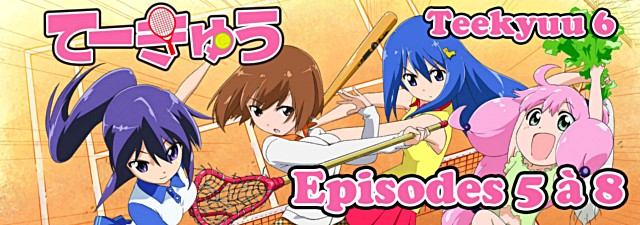
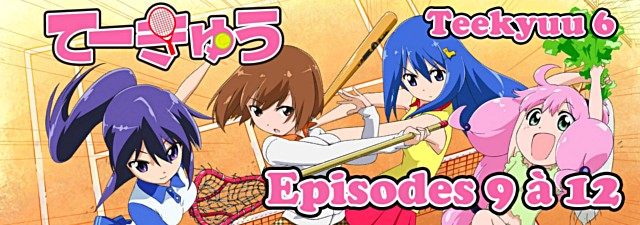
New release+new service

Changed region(s): [[0.4062, 0.7156, 1.0, 0.9956]]

diff --git a/2016-03-03.html b/2016-03-03.html
@@ -1,7 +1,7 @@
-<!DOCTYPE html>
+<!DOCTYPE html>
 <html lang="fr-FR">
 	<head>
-		<title>Teekyuu Saison 6 | Nobluesky Fansub</title>
+		<title>Teekyuu Saison 6 Ep 9 à 12 vostfr | Nobluesky Fansub</title>
 		<meta charset="utf-8" />
 		<link rel="Shortcut Icon" type="image/x-icon" href="favicon.ico" />
 		<link href="fonts/fonts.css" rel="stylesheet" type="text/css" />
@@ -36,56 +36,16 @@
 	<div id="article">
 		<div id="content">
 			<div class="post">
-				<h1 class="title">Teekyuu Saison 6</h1>
-				<div style="clear: both;">&nbsp;</div>
+				<h1 class="title">Teekyuu Saison 6 Ep 9 à 12 vostfr</h1>
+				<p class="meta"><span class="date">3 Mars 2016</span><span class="posted">Posté par <a href="about.html#nobluesky">Nobluesky</a></span></p>
 				<div style="clear: both;">&nbsp;</div>
 				<div class="entry">
-					<img class="post-images" src="images/2016/teekyuu6.jpg" alt="" />
-					<p>12 épisodes de 2 min, Octobre 2015</p>
-					<p>Suite de la Saison 5</p>
-					<p>Nous suivons le quotidien de quatre lycéennes membres du club de tennis. Un quotidien... pour le moins peu ordinaire!</p>
-					<p>Toujours le même humour à coucher dehors dans cette saison. Si vous avez aimé les précédentes, n'hésitez plus!</p>
+					<img class="post-images" src="images/2016/news12.jpg" alt="" />
+					<p>Salut à tous!</p>
+					<p>Voici la fin de Teekyuu 6, une très bonne saison je trouve, même supérieure aux premières. Qu'en dites-vous?</p>
+					<p>On se dit à la prochaine pour Cyber Formula, et pour la saison 7 bien sûr!</p>
+					<p>Bon visionnage.</p>
 					<h3>Téléchargements et streaming</h3>
-					Episode 01 : 
-					<p class="links dl"><a href="http://jheberg.net/captcha/tks6-01/" class="button-dl">Jheberg</a></p>&nbsp; | &nbsp;
-					<p class="links dl"><a href="http://rutube.ru/video/969d05c94ec504959944cd2faf0cf2bd/" class="button-dl">Rutube</a></p>&nbsp; | &nbsp;
-					<p class="links dl"><a href="https://mega.nz/#!qZVTTAoR!ZrZaw0_bO0SVGx4dVh91WnypRqmF1w-Fc887CWZ__4A" class="button-dl">Mega</a></p>
-					<br>
-					Episode 02 : 
-					<p class="links dl"><a href="http://jheberg.net/captcha/tks6-02/" class="button-dl">Jheberg</a></p>&nbsp; | &nbsp;
-					<p class="links dl"><a href="http://rutube.ru/video/f4f1bf017ff7d0efde2b3d1bebec66e0/" class="button-dl">Rutube</a></p>&nbsp; | &nbsp;
-					<p class="links dl"><a href="https://mega.nz/#!PIMT3JgL!jck29YL4_GmbqEIOpsVkbJ64PttcWC97jPUxRIqskf8" class="button-dl">Mega</a></p>
-					<br>
-					Episode 03 : 
-					<p class="links dl"><a href="http://jheberg.net/captcha/tks6-03/" class="button-dl">Jheberg</a></p>&nbsp; | &nbsp;
-					<p class="links dl"><a href="http://rutube.ru/video/0692b524d6b76b39321a12b642917e59/" class="button-dl">Rutube</a></p>&nbsp; | &nbsp;
-					<p class="links dl"><a href="https://mega.nz/#!KZ9DSQhK!_QOdE-BElugpknLJ8u2sww1pm4KgNajNkvShsRkhTYY" class="button-dl">Mega</a></p>
-					<br>
-					Episode 04 : 
-					<p class="links dl"><a href="http://jheberg.net/captcha/tks6-04/" class="button-dl">Jheberg</a></p>&nbsp; | &nbsp;
-					<p class="links dl"><a href="http://rutube.ru/video/c50b46270d8b7352b248dcc02fc2b8fc/" class="button-dl">Rutube</a></p>&nbsp; | &nbsp;
-					<p class="links dl"><a href="https://mega.nz/#!vFlFgB5Y!1OcOxigV8qZFNwbtwMvVIAJVXcGJ-TfvHwhNiQ3AaJM" class="button-dl">Mega</a></p>
-					<br>
-					Episode 05 : 
-					<p class="links dl"><a href="http://jheberg.net/captcha/tks6-05/" class="button-dl">Jheberg</a></p>&nbsp; | &nbsp;
-					<p class="links dl"><a href="http://rutube.ru/video/e6dae76efdc5cefa7fb253f09246d231/" class="button-dl">Rutube</a></p>&nbsp; | &nbsp;
-					<p class="links dl"><a href="https://mega.nz/#!SVt2xAxL!NhD5G2_ytqpA1twNCQJg7wHc7QwFjVx5jsOEs-hZ5-g" class="button-dl">Mega</a></p>
-					<br>
-					Episode 06 : 
-					<p class="links dl"><a href="http://jheberg.net/captcha/tks6-06/" class="button-dl">Jheberg</a></p>&nbsp; | &nbsp;
-					<p class="links dl"><a href="http://rutube.ru/video/bafb6e988adb395c8ed4ff40126ae9b0/" class="button-dl">Rutube</a></p>&nbsp; | &nbsp;
-					<p class="links dl"><a href="https://mega.nz/#!TUdGEACA!clyFMjaWyNkv76JwAzWBoBCOz3MLgSPkZ6qNmlM7tJM" class="button-dl">Mega</a></p>
-					<br>
-					Episode 07 : 
-					<p class="links dl"><a href="http://jheberg.net/captcha/tks6-07/" class="button-dl">Jheberg</a></p>&nbsp; | &nbsp;
-					<p class="links dl"><a href="http://rutube.ru/video/54e5adab17290856d801bd3a64c6ecab/" class="button-dl">Rutube</a></p>&nbsp; | &nbsp;
-					<p class="links dl"><a href="https://mega.nz/#!OFEinJDa!zp0QCboa5OGLwMns2g0J1Ttg9IvW9PGehOk7N36FtK4" class="button-dl">Mega</a></p>
-					<br>
-					Episode 08 : 
-					<p class="links dl"><a href="http://jheberg.net/captcha/tks6-08/" class="button-dl">Jheberg</a></p>&nbsp; | &nbsp;
-					<p class="links dl"><a href="http://rutube.ru/video/222763d822c8bac5e69d68a2ae5969cf/" class="button-dl">Rutube</a></p>&nbsp; | &nbsp;
-					<p class="links dl"><a href="https://mega.nz/#!qEEiXTIS!LQwpJSpcDU0wQ1rAXQNCXnkEgniWWJ_JQ8t9G2SZ_Ks" class="button-dl">Mega</a></p>
-					<br>
 					Episode 09 : 
 					<p class="links dl"><a href="http://www.jheberg.net/captcha/tks6-09/" class="button-dl">Jheberg</a></p>&nbsp; | &nbsp;
 					<p class="links dl"><a href="http://rutube.ru/video/6d7a798da74f34bf3ab97d7f3ef46a1a/" class="button-dl">Rutube</a></p>&nbsp; | &nbsp;
@@ -109,6 +69,21 @@
 					<p class="links dl"><a href="http://rutube.ru/video/15037acab25461f5886e1746bc9af6f5/" class="button-dl">Rutube</a></p>&nbsp; | &nbsp;
 					<p class="links dl"><a href="https://mega.nz/#!yBMFBJ5B!SSDmrhbIc7PZVqfBmvO3xpm5wl-jiCxFgqQbkDP8VPo" class="button-dl">Mega</a></p>&nbsp; | &nbsp;
 					<p class="links dl"><a href="https://openload.co/f/f9WfM2HBjIM/%5BNobluesub%5D_Teekyuu_S6_-_12_HD_%281280x720_x264%29.mp4" class="button-dl">Openload</a></p>
+					<h3>Commentaires</h3>
+					<div id="disqus_thread"></div>
+					<script type="text/javascript">
+						/* * * CONFIGURATION VARIABLES: EDIT BEFORE PASTING INTO YOUR WEBPAGE * * */
+						var disqus_shortname = 'noblueskyfansub'; // required: replace example with your forum shortname
+
+						/* * * DON'T EDIT BELOW THIS LINE * * */
+						(function() {
+							var dsq = document.createElement('script'); dsq.type = 'text/javascript'; dsq.async = true;
+							dsq.src = '//' + disqus_shortname + '.disqus.com/embed.js';
+							(document.getElementsByTagName('head')[0] || document.getElementsByTagName('body')[0]).appendChild(dsq);
+						})();
+					</script>
+					<noscript>Activez javascript pour voir les commentaires.</noscript>
+					<a href="http://disqus.com" class="dsq-brlink">commentaires propulsés par <span class="logo-disqus">Disqus</span></a>
 				</div>
 			</div>
 			<div style="clear: both;">&nbsp;</div>

diff --git a/page2.html b/page2.html
@@ -31,7 +31,7 @@
 	<div class="slider-wrapper theme-default">
 		<div class="ribbon"></div>
 		<div id="slider" class="nivoSlider">
-			<a href="2016-02-29.html"><img src="images/img01.jpg" alt="" /></a><a href="2016-02-21.html"><img src="images/img02.jpg" alt="" /></a><img src="images/img03.jpg" alt="" />
+			<a href="2016-03-03.html"><img src="images/img02.jpg" alt="" /></a><a href="2016-02-29.html"><img src="images/img01.jpg" alt="" /></a><img src="images/img03.jpg" alt="" />
 		</div>
 	</div>
 <script type="text/javascript">
@@ -50,6 +50,19 @@
 </div>
 	<div id="feed">
 		<div id="content">
+			<div class="post">
+				<h1 class="title"><a href="2016-01-31.html">Future GPX Cyber Formula BD 26 vostfr</a></h1>
+				<p class="meta"><span class="date">31 Janvier 2016</span><span class="posted">Posté par <a href="about.html#nobluesky">Nobluesky</a></span></p>
+				<p><a href="http://nobluesub.com/2016-01-31.html#disqus_thread">Commentaires</a></p>
+				<div style="clear: both;">&nbsp;</div>
+				<div class="entry">
+					<img class="post-images" src="images/2016/news7.jpg" alt="" />
+					<p>Bonjour à tous,</p>
+					<p>Une finale de Cyber Formule cette fois, et une étape de franchie dans la série!</p>
+					<p>Je vous souhaite un bon épisode....</p>
+					<p class="links"><a href="2016-01-31.html" class="button">Lire la suite</a></p>
+				</div>
+			</div>
 			<div class="post">
 				<h1 class="title"><a href="2016-01-25.html">Teekyuu Saison 5 Ep 9 à 12 vostfr</a></h1>
 				<p class="meta"><span class="date">25 Janvier 2016</span><span class="posted">Posté par <a href="about.html#nobluesky">Nobluesky</a></span></p>
@@ -99,19 +112,6 @@
 					<p>Bonsoir tout le monde, c'est la suite! Comment, vous le saviez?!</p>
 					<p>Bon, et bien puisque c'est ainsi, vous n'avez plus qu'à regarder. C'est malin! Je vous souhaite une bonne soirée en compagnie de notre équipe...</p>
 					<p class="links"><a href="2016-01-12.html" class="button">Lire la suite</a></p>
-				</div>
-			</div>
-			<div class="post">
-				<h1 class="title"><a href="2016-01-06.html">Teekyuu Saison 5 Ep 1 à 4 vostfr</a></h1>
-				<p class="meta"><span class="date">6 Janvier 2016</span><span class="posted">Posté par <a href="about.html#nobluesky">Nobluesky</a></span></p>
-				<p><a href="http://nobluesub.com/2016-01-06.html#disqus_thread">Commentaires</a></p>
-				<div style="clear: both;">&nbsp;</div>
-				<div class="entry">
-					<img class="post-images" src="images/2016/news2.jpg" alt="" />
-					<p>Bonsoir,</p>
-					<p>Je vous présente Teekyuu, projet que j'ai décidé de reprendre à partir de la saison 5.</p>
-					<p>Pour ceux qui ne connaissent pas, c'est un animé court à haute teneur humoristique, et ça change radicalement de la Cyber Formule...</p>
-					<p class="links"><a href="2016-01-06.html" class="button">Lire la suite</a></p>
 				</div>
 			</div>
 			</div>

diff --git a/index.html b/index.html
@@ -35,7 +35,7 @@
 	<div class="slider-wrapper theme-default">
 		<div class="ribbon"></div>
 		<div id="slider" class="nivoSlider">
-			<a href="2016-02-29.html"><img src="images/img01.jpg" alt="" /></a><a href="2016-02-21.html"><img src="images/img02.jpg" alt="" /></a><img src="images/img03.jpg" alt="" />
+			<a href="2016-03-03.html"><img src="images/img02.jpg" alt="" /></a><a href="2016-02-29.html"><img src="images/img01.jpg" alt="" /></a><img src="images/img03.jpg" alt="" />
 		</div>
 	</div>
 <script type="text/javascript">
@@ -60,6 +60,19 @@
 				<div style="clear: both;">&nbsp;</div>
 				<div class="entry">
 					<p>Bienvenue sur le site de la Nobluesky Fansub!</p>
+				</div>
+			</div>
+			<div class="post">
+				<h1 class="title"><a href="2016-03-03.html">Teekyuu Saison 6 Ep 9 à 12 vostfr</a></h1>
+				<p class="meta"><span class="date">3 Mars 2016</span><span class="posted">Posté par <a href="about.html#nobluesky">Nobluesky</a></span></p>
+				<p><a href="http://nobluesub.com/2016-03-03.html#disqus_thread">Commentaires</a></p>
+				<div style="clear: both;">&nbsp;</div>
+				<div class="entry">
+					<img class="post-images" src="images/2016/news12.jpg" alt="" />
+					<p>Salut à tous!</p>
+					<p>Voici la fin de Teekyuu 6, une très bonne saison je trouve, même supérieure aux premières. Qu'en dites-vous ?</p>
+					<p>On se dit à la prochaine...</p>
+					<p class="links"><a href="2016-03-03.html" class="button">Lire la suite</a></p>
 				</div>
 			</div>
 			<div class="post">
@@ -113,19 +126,6 @@
 					<p>Une jungle de gags vous attendent dans Teekyuu 6! C'est le quart d'heure de folie de la semaine^^</p>
 					<p>Comme d'habitude, vous pourrez aussi...</p>
 					<p class="links"><a href="2016-02-05.html" class="button">Lire la suite</a></p>
-				</div>
-			</div>
-			<div class="post">
-				<h1 class="title"><a href="2016-01-31.html">Future GPX Cyber Formula BD 26 vostfr</a></h1>
-				<p class="meta"><span class="date">31 Janvier 2016</span><span class="posted">Posté par <a href="about.html#nobluesky">Nobluesky</a></span></p>
-				<p><a href="http://nobluesub.com/2016-01-31.html#disqus_thread">Commentaires</a></p>
-				<div style="clear: both;">&nbsp;</div>
-				<div class="entry">
-					<img class="post-images" src="images/2016/news7.jpg" alt="" />
-					<p>Bonjour à tous,</p>
-					<p>Une finale de Cyber Formule cette fois, et une étape de franchie dans la série!</p>
-					<p>Je vous souhaite un bon épisode....</p>
-					<p class="links"><a href="2016-01-31.html" class="button">Lire la suite</a></p>
 				</div>
 			</div>
 			<div id="button-page-wrapper">

diff --git a/menu.html b/menu.html
@@ -3,7 +3,6 @@
   <li class="menu-line"><a class="inactive" href="#">Projets en cours</a>
 	<ul id="en-cours">
 		<div id="en-cours">
-			<li class="menu-unfold"><a href="teekyuu6.html">Teekyuu Saison 6</a></li>
 			<li class="menu-unfold"><a href="future-gpx-cyber-formula.html">Future GPX Cyber Formula</a></li>
 		</div>
 	</ul>
@@ -11,6 +10,7 @@
   <li class="menu-line"><a class="inactive" href="#">Projets terminés</a>
 	<ul id="termines">
 		<div id="termines">
+			<li class="menu-unfold"><a href="teekyuu6.html">Teekyuu Saison 6</a></li>
 			<li class="menu-unfold"><a href="teekyuu5.html">Teekyuu Saison 5</a></li>
 			<li class="menu-unfold"><a href="yoru-no-yatterman.html">[Licencié] Yoru no Yatterman</a></li>
 		</div>

diff --git a/sidebar.html b/sidebar.html
@@ -1,4 +1,4 @@
-<!DOCTYPE html>
+<!DOCTYPE html>
 <html lang="fr-FR">
 <head>
 <meta charset="utf-8" />
@@ -34,9 +34,9 @@
 					<span style="width: 10%"></span>
 					</div>
 				</li>
-				<li>Teekyuu 6 Ep 9 à 12 : 80%
+				<li>Teekyuu 6 Ep 9 à 12 : 100%
 					<div class="progress-bar blue stripes" title="Progression" >
-					<span style="width: 80%"></span>
+					<span style="width: 100%"></span>
 					</div>
 				</li>
 			</ul>

diff --git a/archives.html b/archives.html
@@ -46,6 +46,7 @@
 					<div>
 					<!-- here comes spoiler content -->
 					<div style="clear: both;">&nbsp;</div>
+					<p><a href="2016-01-06.html" target="_blank" >Teekyuu Saison 5 Ep 1 à 4 vostfr</a></p>
 					<p><a href="2016-01-05.html" target="_blank" >Future GPX Cyber Formula BD 23 vostfr</a></p>
 					<!-- end spoiler content -->
 					</div>

diff --git a/style.css b/style.css
@@ -274,7 +274,7 @@ a:hover {
 }
 
 .button-dl {
-	padding: 1px 25px;
+	padding: 1px 20px;
 	background: rgb(48, 122, 211);
 	border-radius: 4px;
 	text-transform: uppercase;
